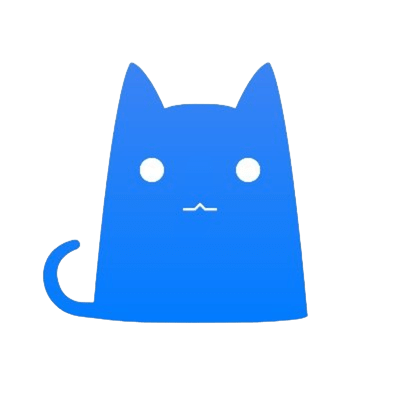
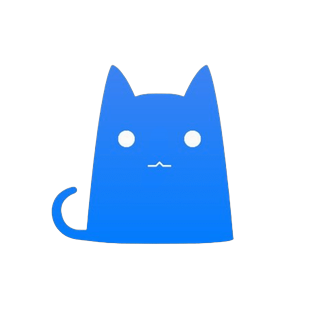
fix: 取用表首列文字纵向对齐（mihomo 图标画布与另两个统一）
现象：表格首列 Surge / Egern / mihomo 三个名字的首字母纵向对不齐。

原因：图标宽高比不同。Surge-Icon.png 与 Egern-Icon.png 是 370x240（宽扁），
mihomo.png 是 400x400（正方）—— 按 height=20 渲染时前两者占 30.8px，
mihomo 只占 20px，文字起点就差了 10.8px。

修法（治本，不在 README 里打补丁）：把 mihomo 图标重做成两张，
沿用 Surge / Surge-Icon、Egern / Egern-Icon 的命名分工：
  - mihomo-Icon.png  370x240  表格用（取用表 x2、井然有序表 x1）
  - mihomo.png       320x320  顶部图标行用（与 Surge.png 319x320 / Egern.png 410x320 同 h≈320 系）

结果：表格三个图标在 h=20 / h=22 下均为 33.9px（完全等宽），首列文字起点对齐；
顶部 h=56 下 mihomo 56.0px vs Surge 55.8px，视觉齐平。

原图等比缩放居中放入透明画布，未拉伸变形。

diff --git a/README.md b/README.md
@@ -29,8 +29,8 @@
 |:--|:--|:--|
 | <img src="https://raw.githubusercontent.com/RiverFlowsInUUU/self-conf/main/icons/Surge-Icon.png" height="20" alt=""> **Surge** | [`surge-lazy.min.conf`](https://raw.githubusercontent.com/RiverFlowsInUUU/self-conf/main/surge/profiles/lazy.min.conf) | [`surge-routing.min.conf`](https://raw.githubusercontent.com/RiverFlowsInUUU/self-conf/main/surge/profiles/routing.min.conf) |
 | <img src="https://raw.githubusercontent.com/RiverFlowsInUUU/self-conf/main/icons/Egern-Icon.png" height="20" alt=""> **Egern** | [`egern-lazy.min.yaml`](https://raw.githubusercontent.com/RiverFlowsInUUU/self-conf/main/egern/profiles/lazy.min.yaml) | [`egern-routing.min.yaml`](https://raw.githubusercontent.com/RiverFlowsInUUU/self-conf/main/egern/profiles/routing.min.yaml) |
-| <img src="https://raw.githubusercontent.com/RiverFlowsInUUU/self-conf/main/icons/mihomo.png" height="20" alt=""> **mihomo**<br><sub>静态</sub> | [`clash-lazy.min.yaml`](https://raw.githubusercontent.com/RiverFlowsInUUU/self-conf/main/clash/profiles/lazy.min.yaml) | [`clash-routing.min.yaml`](https://raw.githubusercontent.com/RiverFlowsInUUU/self-conf/main/clash/profiles/routing.min.yaml) |
-| <img src="https://raw.githubusercontent.com/RiverFlowsInUUU/self-conf/main/icons/mihomo.png" height="20" alt=""> **mihomo**<br><sub>覆写脚本</sub> | [`my_clash_lazy.js`](https://raw.githubusercontent.com/RiverFlowsInUUU/self-conf/main/clash/override/my_clash_lazy.js) | [`my_clash.js`](https://raw.githubusercontent.com/RiverFlowsInUUU/self-conf/main/clash/override/my_clash.js) |
+| <img src="https://raw.githubusercontent.com/RiverFlowsInUUU/self-conf/main/icons/mihomo-Icon.png" height="20" alt=""> **mihomo**<br><sub>静态</sub> | [`clash-lazy.min.yaml`](https://raw.githubusercontent.com/RiverFlowsInUUU/self-conf/main/clash/profiles/lazy.min.yaml) | [`clash-routing.min.yaml`](https://raw.githubusercontent.com/RiverFlowsInUUU/self-conf/main/clash/profiles/routing.min.yaml) |
+| <img src="https://raw.githubusercontent.com/RiverFlowsInUUU/self-conf/main/icons/mihomo-Icon.png" height="20" alt=""> **mihomo**<br><sub>覆写脚本</sub> | [`my_clash_lazy.js`](https://raw.githubusercontent.com/RiverFlowsInUUU/self-conf/main/clash/override/my_clash_lazy.js) | [`my_clash.js`](https://raw.githubusercontent.com/RiverFlowsInUUU/self-conf/main/clash/override/my_clash.js) |
 
 - **懒人版**：一个总出口，只做防泄露 + 广告拦截 + AI 分流。想省心就用它。
 - **分流版**：按应用 + 按地区细分，每个应用可单独指定走哪个地区。想可控就用它。
@@ -54,7 +54,7 @@
 
 ## 🌐 隐私至上 · 无 DNS 泄露
 
-| | <div align="center"><img src="https://raw.githubusercontent.com/RiverFlowsInUUU/self-conf/main/icons/Surge-Icon.png" height="22" alt=""> Surge</div> | <div align="center"><img src="https://raw.githubusercontent.com/RiverFlowsInUUU/self-conf/main/icons/Egern-Icon.png" height="22" alt=""> Egern</div> | <div align="center"><img src="https://raw.githubusercontent.com/RiverFlowsInUUU/self-conf/main/icons/mihomo.png" height="22" alt=""> mihomo</div> |
+| | <div align="center"><img src="https://raw.githubusercontent.com/RiverFlowsInUUU/self-conf/main/icons/Surge-Icon.png" height="22" alt=""> Surge</div> | <div align="center"><img src="https://raw.githubusercontent.com/RiverFlowsInUUU/self-conf/main/icons/Egern-Icon.png" height="22" alt=""> Egern</div> | <div align="center"><img src="https://raw.githubusercontent.com/RiverFlowsInUUU/self-conf/main/icons/mihomo-Icon.png" height="22" alt=""> mihomo</div> |
 |:--|:--|:--|:--|
 | 🚫 旁路设备 | `hijack-dns` 接管明文 `:53`（六个知名解析器） | `hijack_dns` 接管明文 `:53`（全量） | 由客户端 TUN 或透明代理重定向接管 |
 | 🔐 加密通道 | 主解析走 DoH，主机名端点经裸 IP 受控引导 | 主解析走 DoH/DoT，四条端点全是 IP 字面量 | 主解析走 DoH，端点一律写 IP 字面量 |
